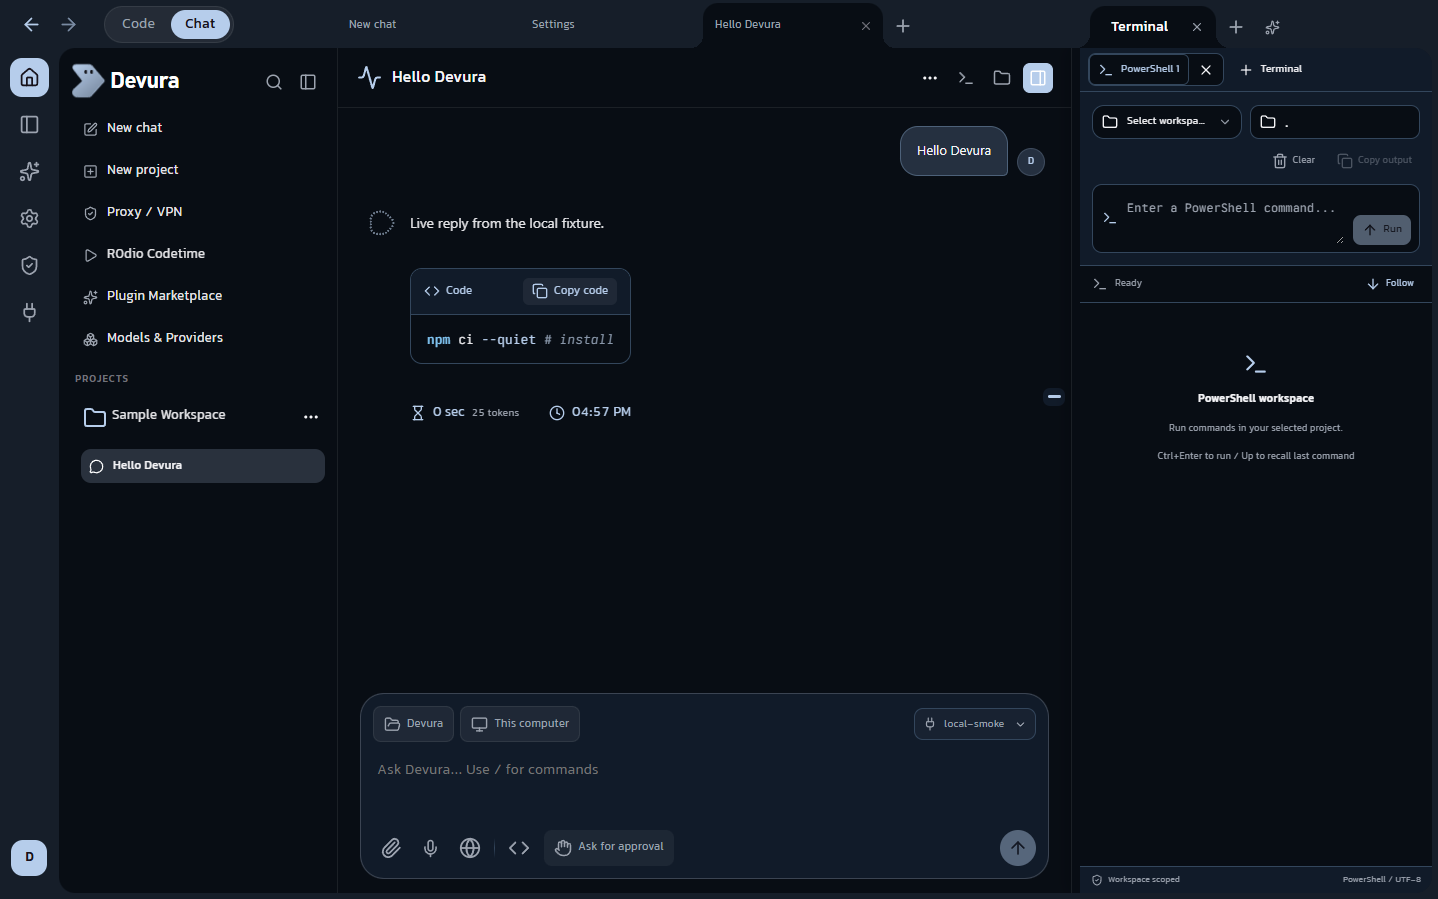
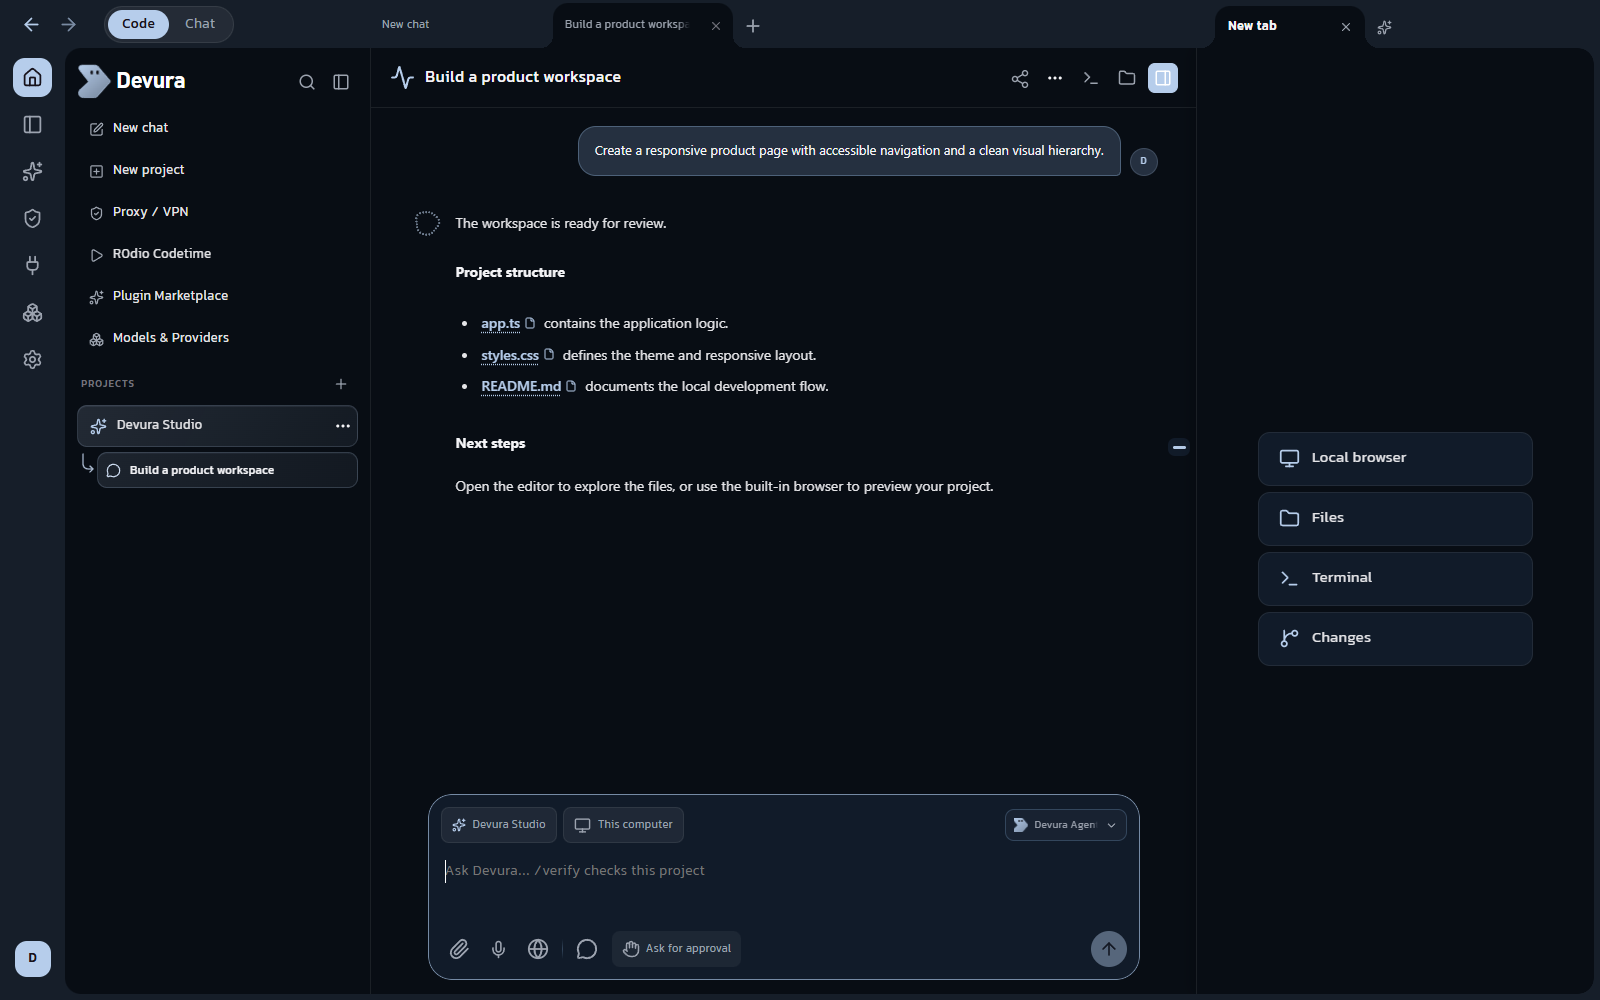
Expand bilingual product gallery and improve AI workspace discovery

diff --git a/README.md b/README.md
@@ -1,7 +1,7 @@
 <p align="center"><img src="assets/brand.png" width="88" alt="Devura"></p>
 <h1 align="center">Devura</h1>
 <p align="center"><strong>Your code. Your pace. Devura.</strong></p>
-<p align="center">Your models, projects, editor, terminal and browser in one AI coding workspace.</p>
+<p align="center">An AI coding workspace for Windows: your models, code editor, terminal and browser in one place.</p>
 
 <p align="center">
 <a href="https://github.com/parsico/devura/releases/download/v0.3.28/Devura-Setup-0.3.28.exe"><img src="docs/badges/windows-download.svg" alt="Download for Windows"></a>
@@ -28,7 +28,7 @@
 | | |
 | --- | --- |
 | **Projects & conversations** | Keep your folders, chats and working context together. |
-| **Coding accounts & models** | Connect coding accounts or configure your own model providers. |
+| **Coding accounts & models** | Connect Codex, Claude Code, Antigravity or GitHub Copilot, or configure your own model providers. |
 | **Editor, terminal & browser** | Inspect files, edit code, run commands and verify web output. |
 | **Activity & background jobs** | Follow Agent actions, build output and real task progress. |
 | **Skills & plugins** | Add focused workflows and connected tools to your projects. |
@@ -54,9 +54,25 @@ Run **Devura-Setup-0.3.28.exe** and follow the setup steps. Existing Windows ins
 
 ## A closer look
 
-| Conversations & tools | Editor & code review |
+Screenshots use a local demonstration workspace. Account status and service availability depend on your setup.
+
+| Code editor & IntelliSense | Coding Agent accounts |
 | :---: | :---: |
-| ![Chat and terminal](docs/images/chat.png) | ![Editor and changes](docs/images/code-review.png) |
+| ![Devura TypeScript code editor with syntax highlighting and project tools](docs/images/code-editor.png) | ![Codex, Claude Code, Antigravity and GitHub Copilot account integrations](docs/images/coding-accounts.png) |
+
+| Plugin Marketplace | Skills Marketplace |
+| :---: | :---: |
+| ![Devura plugin marketplace with MCP-powered developer tools](docs/images/plugin-marketplace.png) | ![Discover and install project skills from skills.sh](docs/images/skills-marketplace.png) |
+
+| Themes & personalization | Model providers |
+| :---: | :---: |
+| ![Devura desktop themes and appearance settings](docs/images/appearance.png) | ![AI model provider configuration in Devura](docs/images/model-providers.png) |
+
+| Network & proxy profiles | Project conversations |
+| :---: | :---: |
+| ![Devura proxy profiles and network subscription settings](docs/images/network-profiles.png) | ![AI project conversation with file references and message composer](docs/images/chat.png) |
+
+<p align="center"><a href="docs/SCREENSHOTS.md">View the full screenshot gallery ?</a></p>
 
 ## Get started
 

diff --git a/README.fa.md b/README.fa.md
@@ -60,11 +60,27 @@
 
 ## نگاهی به برنامه
 
+تصاویر با یک پروژهٔ نمایشی محلی گرفته شدهاند؛ وضعیت حسابها و امکانات هر سرویس به تنظیمات شما بستگی دارد.
+
 </div>
 
-| گفتگو و ابزارها | ویرایشگر و بررسی تغییرات |
+| ویرایشگر کد و IntelliSense | اتصال حساب ایجنتها |
 | :---: | :---: |
-| ![گفتگو و ترمینال](docs/images/chat.png) | ![ویرایشگر و تغییرات](docs/images/code-review.png) |
+| ![ویرایشگر کد دوورا با رنگبندی TypeScript و ابزارهای پروژه](docs/images/code-editor.png) | ![اتصال Codex و Claude Code و Antigravity و GitHub Copilot در دوورا](docs/images/coding-accounts.png) |
+
+| مارکتپلیس پلاگینها | مارکتپلیس اسکیلها |
+| :---: | :---: |
+| ![مارکتپلیس پلاگینهای دوورا و ابزارهای MCP](docs/images/plugin-marketplace.png) | ![مرور و نصب اسکیلهای skills.sh برای پروژه](docs/images/skills-marketplace.png) |
+
+| تمها و شخصیسازی | ارائهدهندگان و مدلها |
+| :---: | :---: |
+| ![تنظیمات تم و شخصیسازی محیط دوورا](docs/images/appearance.png) | ![تنظیم ارائهدهندگان و مدلهای هوش مصنوعی در دوورا](docs/images/model-providers.png) |
+
+| شبکه و پروکسی | گفتگوی پروژه |
+| :---: | :---: |
+| ![مدیریت پروکسی و اشتراکهای شبکهٔ دوورا](docs/images/network-profiles.png) | ![گفتگوی ایجنت با لینک فایلهای پروژه و ورودی پیام](docs/images/chat.png) |
+
+<p align="center"><a href="docs/SCREENSHOTS.fa.md">مشاهدهٔ گالری کامل تصاویر ↗</a></p>
 
 <div dir="rtl">
 

diff --git a/docs/SCREENSHOTS.fa.md b/docs/SCREENSHOTS.fa.md
@@ -1,0 +1,42 @@
+# گالری تصاویر دوورا
+
+[English](SCREENSHOTS.md) | [README](../README.fa.md)
+
+تصاویر واقعی از برنامه با یک پروژهٔ نمایشی محلی؛ بدون اطلاعات شخصی یا کلیدهای دسترسی.
+
+## فضای کاری
+
+![فضای کاری](images/workspace.png)
+
+## گفتگوی پروژه
+
+![گفتگوی پروژه](images/chat.png)
+
+## ویرایشگر کد و IntelliSense
+
+![ویرایشگر کد و IntelliSense](images/code-editor.png)
+
+## حسابهای برنامهنویسی
+
+![حسابهای برنامهنویسی](images/coding-accounts.png)
+
+## مارکتپلیس پلاگینها
+
+![مارکتپلیس پلاگینها](images/plugin-marketplace.png)
+
+## مارکتپلیس اسکیلها
+
+![مارکتپلیس اسکیلها](images/skills-marketplace.png)
+
+## تمها و ظاهر
+
+![تمها و ظاهر](images/appearance.png)
+
+## ارائهدهندگان مدل
+
+![ارائهدهندگان مدل](images/model-providers.png)
+
+## شبکه و پروکسی
+
+![شبکه و پروکسی](images/network-profiles.png)
+

diff --git a/docs/SCREENSHOTS.md b/docs/SCREENSHOTS.md
@@ -1,0 +1,42 @@
+# Devura screenshots
+
+[Back to the overview](../README.md) | [Persian gallery](SCREENSHOTS.fa.md)
+
+Actual desktop screenshots with local demonstration data. No personal accounts or API keys are shown.
+
+## Workspace
+
+![Devura - Workspace](images/workspace.png)
+
+## Project conversation
+
+![Devura - Project conversation](images/chat.png)
+
+## Code editor and IntelliSense
+
+![Devura - Code editor and IntelliSense](images/code-editor.png)
+
+## Coding Agent accounts
+
+![Devura - Coding Agent accounts](images/coding-accounts.png)
+
+## Plugin Marketplace
+
+![Devura - Plugin Marketplace](images/plugin-marketplace.png)
+
+## Skills Marketplace
+
+![Devura - Skills Marketplace](images/skills-marketplace.png)
+
+## Themes and appearance
+
+![Devura - Themes and appearance](images/appearance.png)
+
+## AI model providers
+
+![Devura - AI model providers](images/model-providers.png)
+
+## Network and proxy profiles
+
+![Devura - Network and proxy profiles](images/network-profiles.png)
+
